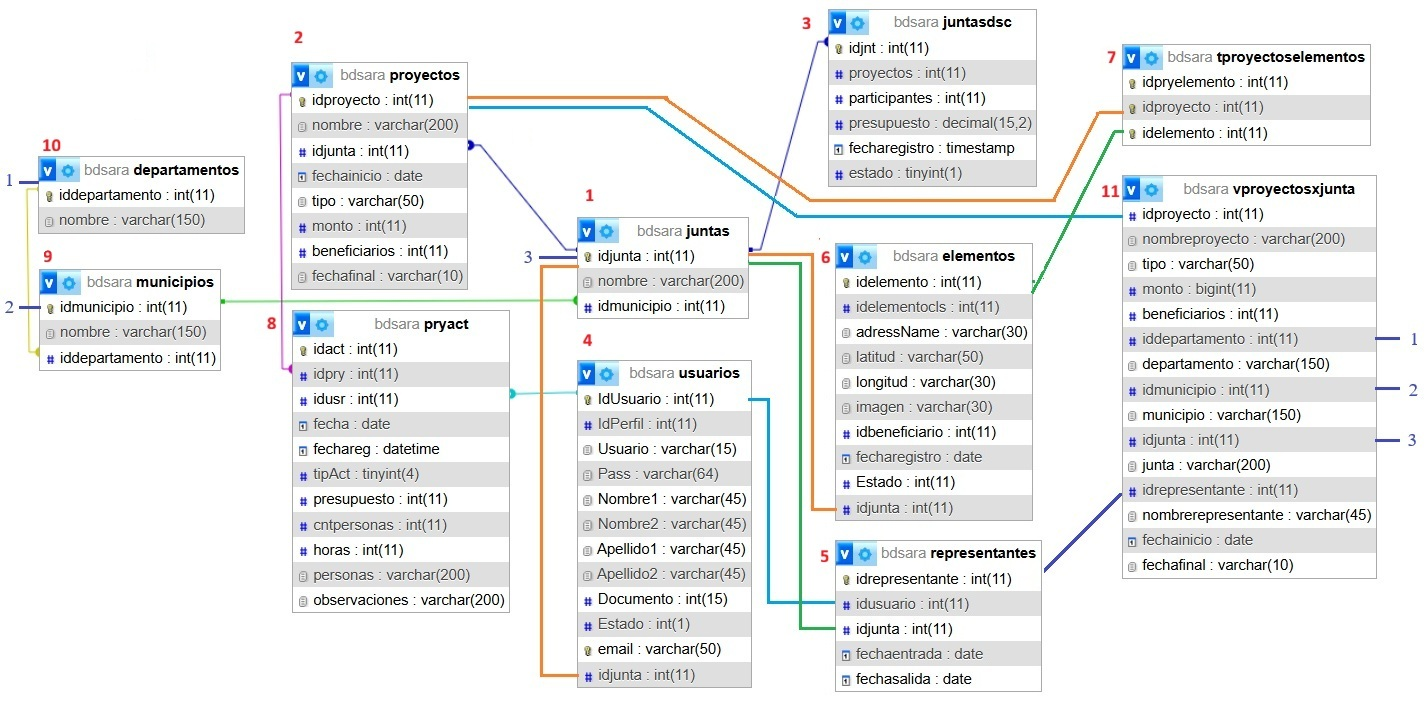
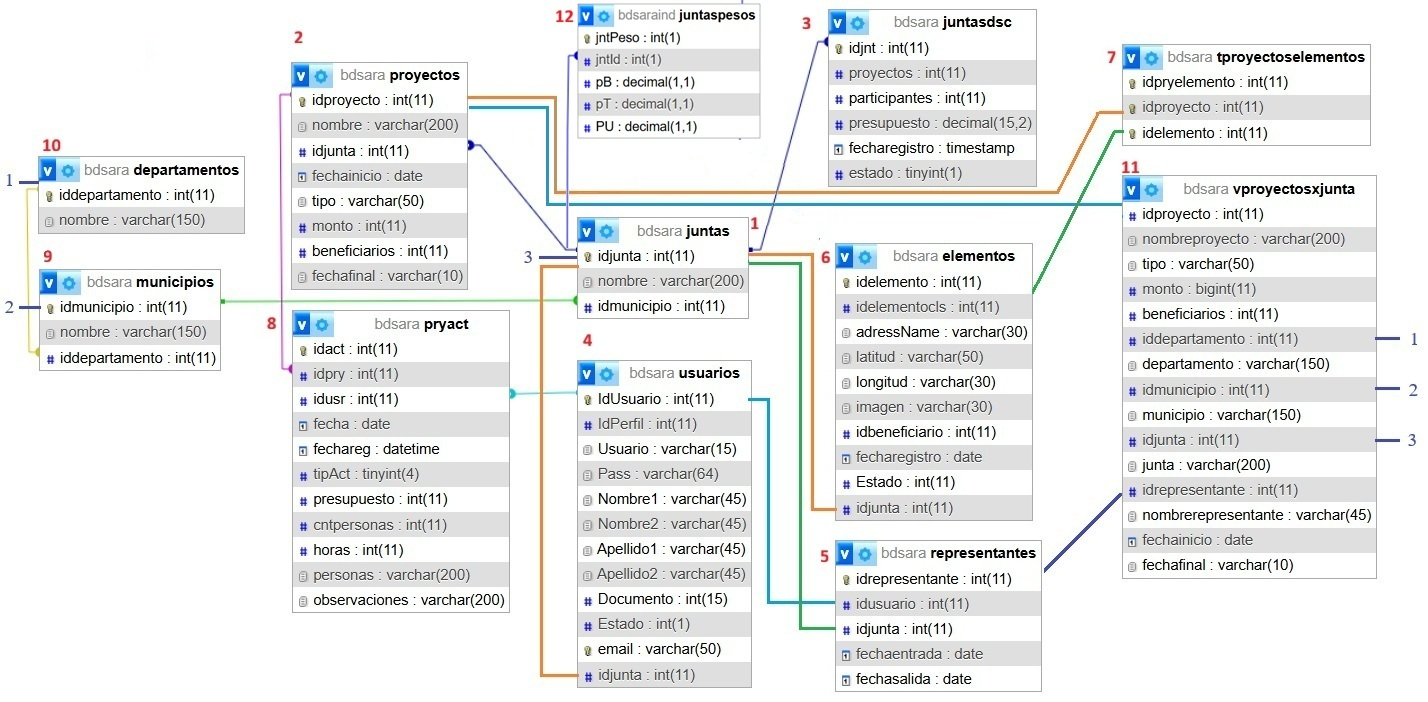
Arregkar documentación

Changed region(s): [[0.3697, 0.0, 0.8011, 0.3291]]

diff --git a/back/vstInter_260327.js b/back/vstInter_260327.js
@@ -61,93 +61,79 @@ document.addEventListener("DOMContentLoaded", function () {
         e.preventDefault();
         let fechaInicio = fechaInicioInput.value;
         let fechaFin = fechaFinInput.value;
-        if (!fechaInicio || !fechaFin) 
-        {  fechaInicio = "0000-00-00";
-           fechaFin = "9999-12-31"; 
+        if (!fechaInicio || !fechaFin) {
+            fechaInicio = "0000-00-00";
+            fechaFin = "9999-12-31";
         }
         const data = new FormData();
         data.append("fecha_inicio", fechaInicio);
         data.append("fecha_fin", fechaFin);
-        //data.append("iddepartamento", selDepartamento.value);
-        //data.append("idmunicipio", selMunicipio.value);
-        //data.append("idjunta", selJunta.value);
+        data.append("iddepartamento", selDepartamento.value);
+        data.append("idmunicipio", selMunicipio.value);
+        data.append("idjunta", selJunta.value);
         fetch(`${RUTA_CONTROLADOR}?accion=consultar`, {
             method: "POST",
             body: data
         })
         .then(r => r.json())
         .then(resp => {
-            if (resp.error) {
-                console.error(resp.error);
-                alert("Error en el servidor");
+            /* ===== RESUMEN ===== */
+            if (!resp.resumen) {
+                alert("No hay información");
                 return;
             }
-            if (!resp.resumen) { alert("No hay información"); return; }
             const r = resp.resumen;
             document.getElementById("resumen").innerHTML = `
                 <br><b>Total proyectos:</b> ${r.total_proyectos}
                 <br><b>Total monto:</b> ${r.total_monto ?? 0}
-                <br><b>Total beneficiarios:</b> ${r.total_beneficiarios ?? 0}`;
+                <br><b>Total beneficiarios:</b> ${r.total_beneficiarios ?? 0}
+            `;
+            /* ===== DETALLE ===== */
             if (!resp.detalle || resp.detalle.length === 0) {
-                document.getElementById("detalle").innerHTML = "<p>No hay detalle de proyectos</p>"; return;
+                document.getElementById("detalle").innerHTML =
+                    "<p>No hay detalle de proyectos</p>";
+                return;
             }
             let fila = 1;
-            let maxMonto = 5000;
-            let maxBeneficiarios = 20;
-
-            let html = `<table border="1" width="100%">
+            //let ancho = 0;
+            let html = `
+            <table border="1" width="100%">
             <tr>
-            <th>#</th>
-            <th>Proyecto</th>
-            <th>Dinero</th>
-            <th>-</th>
-            <th>Benef.</th>
-            <th>-</th>
-            <th>Junta</th>
-            <th>Municipio</th>
-            <th>Departamento</th>
+                <th>#</th>            
+                <th>Proyecto</th>
+                <th>Dinero</th>
+                <th>-</th>
+                <th>Benef.</th>
+                <th>-</th>
+                <th>Junta</th>
+                <th>Municipio</th>
+                <th>Departamento</th>
             </tr>`;
-
             resp.detalle.forEach(d => {
-
-                let ancho1 = maxMonto ? (d.monto * 100) / maxMonto : 0;
-                let ancho2 = maxBeneficiarios ? (d.beneficiarios * 100) / maxBeneficiarios : 0;
-
-                // limitar a 100%
-                ancho1 = Math.min(ancho1, 100);
-                ancho2 = Math.min(ancho2, 100);
-                // redondear
-                let porc1 = Math.round(ancho1);
-                let porc2 = Math.round(ancho2);
-                html += `<tr>
-                    <td>${fila}</td>
+            let ancho1 = (d.monto*100)/5000
+            let ancho2 = (d.beneficiarios*100)/20
+            html += `
+                <tr><td>${fila}</td>
                     <td>${d.proyecto}</td>
                     <td>${d.monto}</td>
-                    <td>
-                        <img src="../img/barra.png" height="16" width="${ancho1}">
-                        ${porc1}%
-                    </td>
+                    <td><img src="../img/barra.png" height="12" width="${ancho1}">
                     <td>${d.beneficiarios}</td>
-                    <td>
-                        <img src="../img/barra.png" height="16" width="${ancho2}">
-                        ${porc2}%
-                    </td>
+                    <td><img src="../img/barra.png" height="12" width="${ancho2}">
                     <td>${d.junta}</td>
                     <td>${d.municipio}</td>
                     <td>${d.departamento}</td>
                 </tr>`;
-
-                fila++;
+            fila++;
             });
-
             html += "</table>";
             document.getElementById("detalle").innerHTML = html;
         })
         .catch(err => console.error("Error en consulta", err));
     }
     /* EVENTOS */
-    //cargarDepartamentos();
-    //selDepartamento.addEventListener("change", cargarMunicipios);
-    //selMunicipio.addEventListener("change", cargarJuntas);
+    cargarDepartamentos();
+    selDepartamento.addEventListener("change", cargarMunicipios);
+    selMunicipio.addEventListener("change", cargarJuntas);
     form.addEventListener("submit", consultarProyectos);
+
 });

diff --git a/back/modInter - copia.php b/back/modInter - copia.php
@@ -4,7 +4,7 @@ function conect() {
     $username = "root";
     $password = "";
     $bd = "bdsaraind";     
-    if (!($cn= mysqli_connect($servername,$username,$password,$bd,3306))){
+    if (!($cn= mysqli_connect($servername,$username,$password,$bd,4097))){
         echo "Error conectando a la base de datos.";
         exit();
     }
@@ -60,19 +60,19 @@ function obtenerJuntas($idmunicipio) {
     return $data;
 }
 // CONSULTA DE PROYECTOS
-function consultarProyectos($fi, $ff) { //, $dep, $mun, $jun
+function consultarProyectos($fi, $ff, $dep, $mun, $jun) {
     $cn = conect();
     /* ===== FILTROS DINÁMICOS ===== */
-//    $where = "WHERE p.fechainicio BETWEEN '$fi' AND '$ff'";
-//    if ($dep) {
-//        $where .= " AND d.iddepartamento = '$dep'";
-//    }
-//    if ($mun) {
-//        $where .= " AND m.idmunicipio = '$mun'";
-//    }
-//    if ($jun) {
-//        $where .= " AND j.idjunta = '$jun'";
-//    }
+    $where = "WHERE p.fechainicio BETWEEN '$fi' AND '$ff'";
+    if ($dep) {
+        $where .= " AND d.iddepartamento = '$dep'";
+    }
+    if ($mun) {
+        $where .= " AND m.idmunicipio = '$mun'";
+    }
+    if ($jun) {
+        $where .= " AND j.idjunta = '$jun'";
+    }
     /* ===== RESUMEN ===== */
     $sqlResumen = "
         SELECT
@@ -83,15 +83,10 @@ function consultarProyectos($fi, $ff) { //, $dep, $mun, $jun
         JOIN juntas j ON p.idjunta = j.idjunta
         JOIN municipios m ON j.idmunicipio = m.idmunicipio
         JOIN departamentos d ON m.iddepartamento = d.iddepartamento
-        ";
-        //$where
-    //print $sqlResumen;
-    //exit();
+        $where
+    ";
     $resResumen = $cn->query($sqlResumen);
-    if (!$resResumen) {
-        return ["error" => $cn->error];
-    }
-    $resumen = $resResumen->fetch_assoc();
+    $resumen = $resResumen ? $resResumen->fetch_assoc() : null;
     /* ===== DETALLE ===== */
     $sqlDetalle = "
         SELECT
@@ -105,13 +100,10 @@ function consultarProyectos($fi, $ff) { //, $dep, $mun, $jun
         JOIN juntas j ON p.idjunta = j.idjunta
         JOIN municipios m ON j.idmunicipio = m.idmunicipio
         JOIN departamentos d ON m.iddepartamento = d.iddepartamento
+        $where
         ORDER BY d.nombre, m.nombre, j.nombre
     ";
-    //$where
     $rs = $cn->query($sqlDetalle);
-    if (!$rs) {
-        return ["error" => $cn->error];
-    }
     $detalle = [];
     while ($row = $rs->fetch_assoc()) {
         $detalle[] = $row;

diff --git a/admin/indCorelEjec.php b/admin/indCorelEjec.php
@@ -35,7 +35,7 @@ $fechaInicio = $_GET['fecha_inicio'] ?? '';
 $fechaFin    = $_GET['fecha_fin'] ?? '';
 $departamento = $_GET['departamento'] ?? '';
 $agrupacion = $_GET['agrupacion'] ?? 'vereda'; // departamento / municipio / vereda
-$agruparAnyo = isset($_GET['agrupar_anio']) ? intval($_GET['agrupar_anio']) : 0;
+$agruparAnyo = 1; //isset($_GET['agrupar_anio']) ? intval($_GET['agrupar_anio']) : 0;
 $orden = $_GET['orden'] ?? '';
 // Paginación
 $pagina = isset($_GET['pagina']) ? max(1, intval($_GET['pagina'])) : 1;
@@ -76,7 +76,8 @@ $groupBy = " GROUP BY " . implode(", ", $groupFields);
 // 4. ORDER BY dinámico
 $orderBy = " ORDER BY ";
 // 1. Si agrupa por año, este orden siempre va primero
-if ($agruparAnyo == 1) {
+//if ($agruparAnyo == 1) 
+{
     $orderBy .= "YEAR(fechaInicio) ASC, ";
 }
 // 2. Orden manual por botones
@@ -219,7 +220,7 @@ $resultado->data_seek(0);
     </tr><?php 
     $contFil = 1;
     while ($row = $resultado->fetch_assoc()): ?>
-        <tr> <td><?= $contFil ?></td>
+        <tr><td><?= $contFil ?></td>
             <?php if ($agruparAnyo == 1): ?>
                 <td><?= $row['anio'] ?></td>
             <?php endif; ?>

diff --git a/admin/indPryMVC.php b/admin/indPryMVC.php
@@ -25,9 +25,10 @@ $rol = $_GET['rol'] ?? 0;
     Fecha inicio: <input type="date" id="fecha_inicio" name="fecha_inicio">
     Fecha final:  <input type="date" id="fecha_fin" name="fecha_fin">
     <br><br>
-    Departamento: <select name="iddepartamento" id="departamento" onchange="cargarMunicipios()"></select>
+    <!--Departamento: <select name="iddepartamento" id="departamento" onchange="cargarMunicipios()"></select>
     Municipio: <select name="idmunicipio" id="municipio" onchange="cargarJuntas()"></select>
     Junta: <select name="idjunta" id="junta"></select>
+    -->
     <button type="submit" id="consultar">Consultar</button>
 </form>
 <!-- Resumen y Detalles de los Proyectos -->
@@ -35,7 +36,8 @@ $rol = $_GET['rol'] ?? 0;
 <div id="detalle"></div>
 <script>
     // Función para validar y habilitar el botón de envío
-    function validar() {
+    function validar() 
+    {
         var dep = document.getElementById("departamento").value;
         var mun = document.getElementById("municipio").value;
         var jun = document.getElementById("junta").value;

diff --git a/principal.php b/principal.php
@@ -26,12 +26,12 @@ else {
     &nbsp;<a href="logOut.php">Cerrar sesión</a>
     <nav><?php // if (isset($_SESSION['rol']) && $_SESSION['rol'] === 'admin'): ?>
         <ul>
-        <li><a href="admin/indCorelEjec.php">Ind. de Corelación de Ejecución</a></li>  
-        <li><a href="admin/indInterGnrl.php">Ind. de Intervención General</a></li>
-        <li><a href="admin/indPryMVC.php">Ind. de Proyectos por JAC</a></li>
-        <li><a href="admin/indActivMesPryMVC.php">Ind. Mensual de Activ. por JAC </a></li>
-        <li><a href="admin/indElem.php">Ind. de Infraestructura por JAC</a></li>        
-        </ul>
+        <li><a href="admin/indCorelEjec.php">Ind. de Corelación</a></li>  
+        <li><a href="admin/indInterGnrl.php">Ind. General</a></li>
+        <li><a href="admin/indElem.php">Ind. de Infraestructura</a></li>
+        <li><a href="admin/indPryMVC.php">Ind. de Proyectos</a></li>
+        <li><a href="admin/indActivMesPryMVC.php">Ind. Municipal</a></li>
+       </ul>
     </nav>    
     <div class="container">
         <div class="col-md-3"><?php

diff --git a/back/vstInter - copia.php b/back/vstInter - copia.php
@@ -23,15 +23,16 @@ switch ($accion) {
         $iddepartamento = $_POST['iddepartamento'] ?? null;
         $idmunicipio    = $_POST['idmunicipio']    ?? null;
         $idjunta        = $_POST['idjunta']        ?? null;
-        $resultado = consultarProyectos($fecha_inicio, $fecha_fin);
-
-        if (isset($resultado["error"])) {
-            echo json_encode(["error" => $resultado["error"]]);
-        } else {
-            echo json_encode($resultado);
-        }
-        exit;
-        // ,$iddepartamento,$idmunicipio,$idjunta
+        echo json_encode(
+            consultarProyectos(
+                $fecha_inicio,
+                $fecha_fin,
+                $iddepartamento,
+                $idmunicipio,
+                $idjunta
+            )
+        );
         break;
-    default: echo json_encode([]);
+    default:
+        echo json_encode([]);
 }

diff --git a/back/vstActiv.php b/back/vstActiv.php
@@ -4,7 +4,7 @@ function mostrarTablaActividades($datos) {
 <table >
 <tr>
     <th>#</th>
-    <th>Id</th>
+    <th>IdProy</th>
     <th>Proyecto</th>
 
     <th>Depart.</th>
@@ -20,7 +20,7 @@ function mostrarTablaActividades($datos) {
     <th>Cant. Horas</th>
     <th>Cant. Activ.</th>
 </tr><?php
-$i = 1;
+$i = 0;
 if (!empty($datos)):
     foreach ($datos as $row):
         echo '<tr>';

diff --git a/docs/tecnico/bdest.md b/docs/tecnico/bdest.md
@@ -1,4 +1,4 @@
-# SARAInd - Database
+# SARA-Ind - Database
 
 The database is presented in Figure and can be understood by reading it in the order:
 
@@ -13,5 +13,5 @@ The database is presented in Figure and can be understood by reading it in the o
 9. Each JAC is associated with a municipality.
 10. Each municipality is associated with a department.
 11. Each project must be associated with a JAC, and to facilitate data querying, a database view was created with the required attributes for indicators generation **vproyectosjunta**).
-
+12. Each JAC should be assigned weights associated with budget allocation, user participation, and time dedication (**juntaspesos**). These weighted are used to compute an overall indicator.
 ![Estructura](../img/bd.jpg)

diff --git a/docs/admin/indCorelEjec.md b/docs/admin/indCorelEjec.md
@@ -4,7 +4,7 @@ The correlation-based intervention indicator allows estimating the percentage of
 
 Item Indicators are defined as a measure of the degree of compliance with the goals established for each community and each intervention item. This approach enables objective and comparable performance evaluation. For a community i and an item j, the indicator is calculated using the following expression:
 
-**Iᵢⱼ = Real valueᵢⱼ / Maximum value among the JACs in the reportᵢⱼ**
+**Iᵢ = Real valueᵢ / Maximum value among the JACs in the reportᵢ**
 
 The indicator Iᵢⱼ may take values greater than 1 when the defined goal is exceeded, which makes it possible to identify scenarios of overachievement and additional efficiency.
 

diff --git a/docs/admin/indInterGnrl.md b/docs/admin/indInterGnrl.md
@@ -15,7 +15,7 @@ Based on the following indicators:
 
 Each component is calculated by dividing the achieved value of each project by its expected value, similarly to Equation 1. In this case, predefined goals are used, allowing comparison across the Community Action Boards (JACs). For a community i and an item j.
 
-**Iᵢⱼ = Achieved valueᵢⱼ / Goalᵢⱼ**	
+**Iᵢ = (Sumatoria(Achieved valueⱼ)/number of projectsᵢ) / Goalᵢ**	
 
 The report presents a table listing projects by Department, Municipality, and Rural Area, including the number of projects, the budget amount, and the total number of beneficiaries. For the last three items, comparative charts are also presented alongside the list.
 

diff --git a/docs/tecnico/roles.md b/docs/tecnico/roles.md
@@ -6,9 +6,11 @@ In SARA-Ind, there is only one role, although it may be assigned to different mu
 
 In SARA-Reg, the roles are:
 
-# Territorial Authority 
+**Territorial Authority**
+ 
 1. **Supervisor**: Validates the reported expenditure indicators.
 
-# Community (Community Action Board – JAC)
+**Community (Community Action Board – JAC)**
+
 1. **JAC President**: Registers the participants from the rural community.
 2. **Treasurer**: Reports the amount of own funds invested.

diff --git a/docs/admin/indActivMesPryMVC.md b/docs/admin/indActivMesPryMVC.md
@@ -6,10 +6,10 @@ Project, Beneficiaries, Department, Municipality, Community Board, Month, Assign
 
 Model and View are implemented on the backend and do not use Markdown.An example is shown in the figure. 
 ![Inf. Mensual de actividades por proyecto](../img/a2.jpg)
-
 The steps are as follows:
 
-1. The user reaches the controller.
+<ol>
+<il>1. The user reaches the controller.
 
 2. The controller interacts with the model.
 
